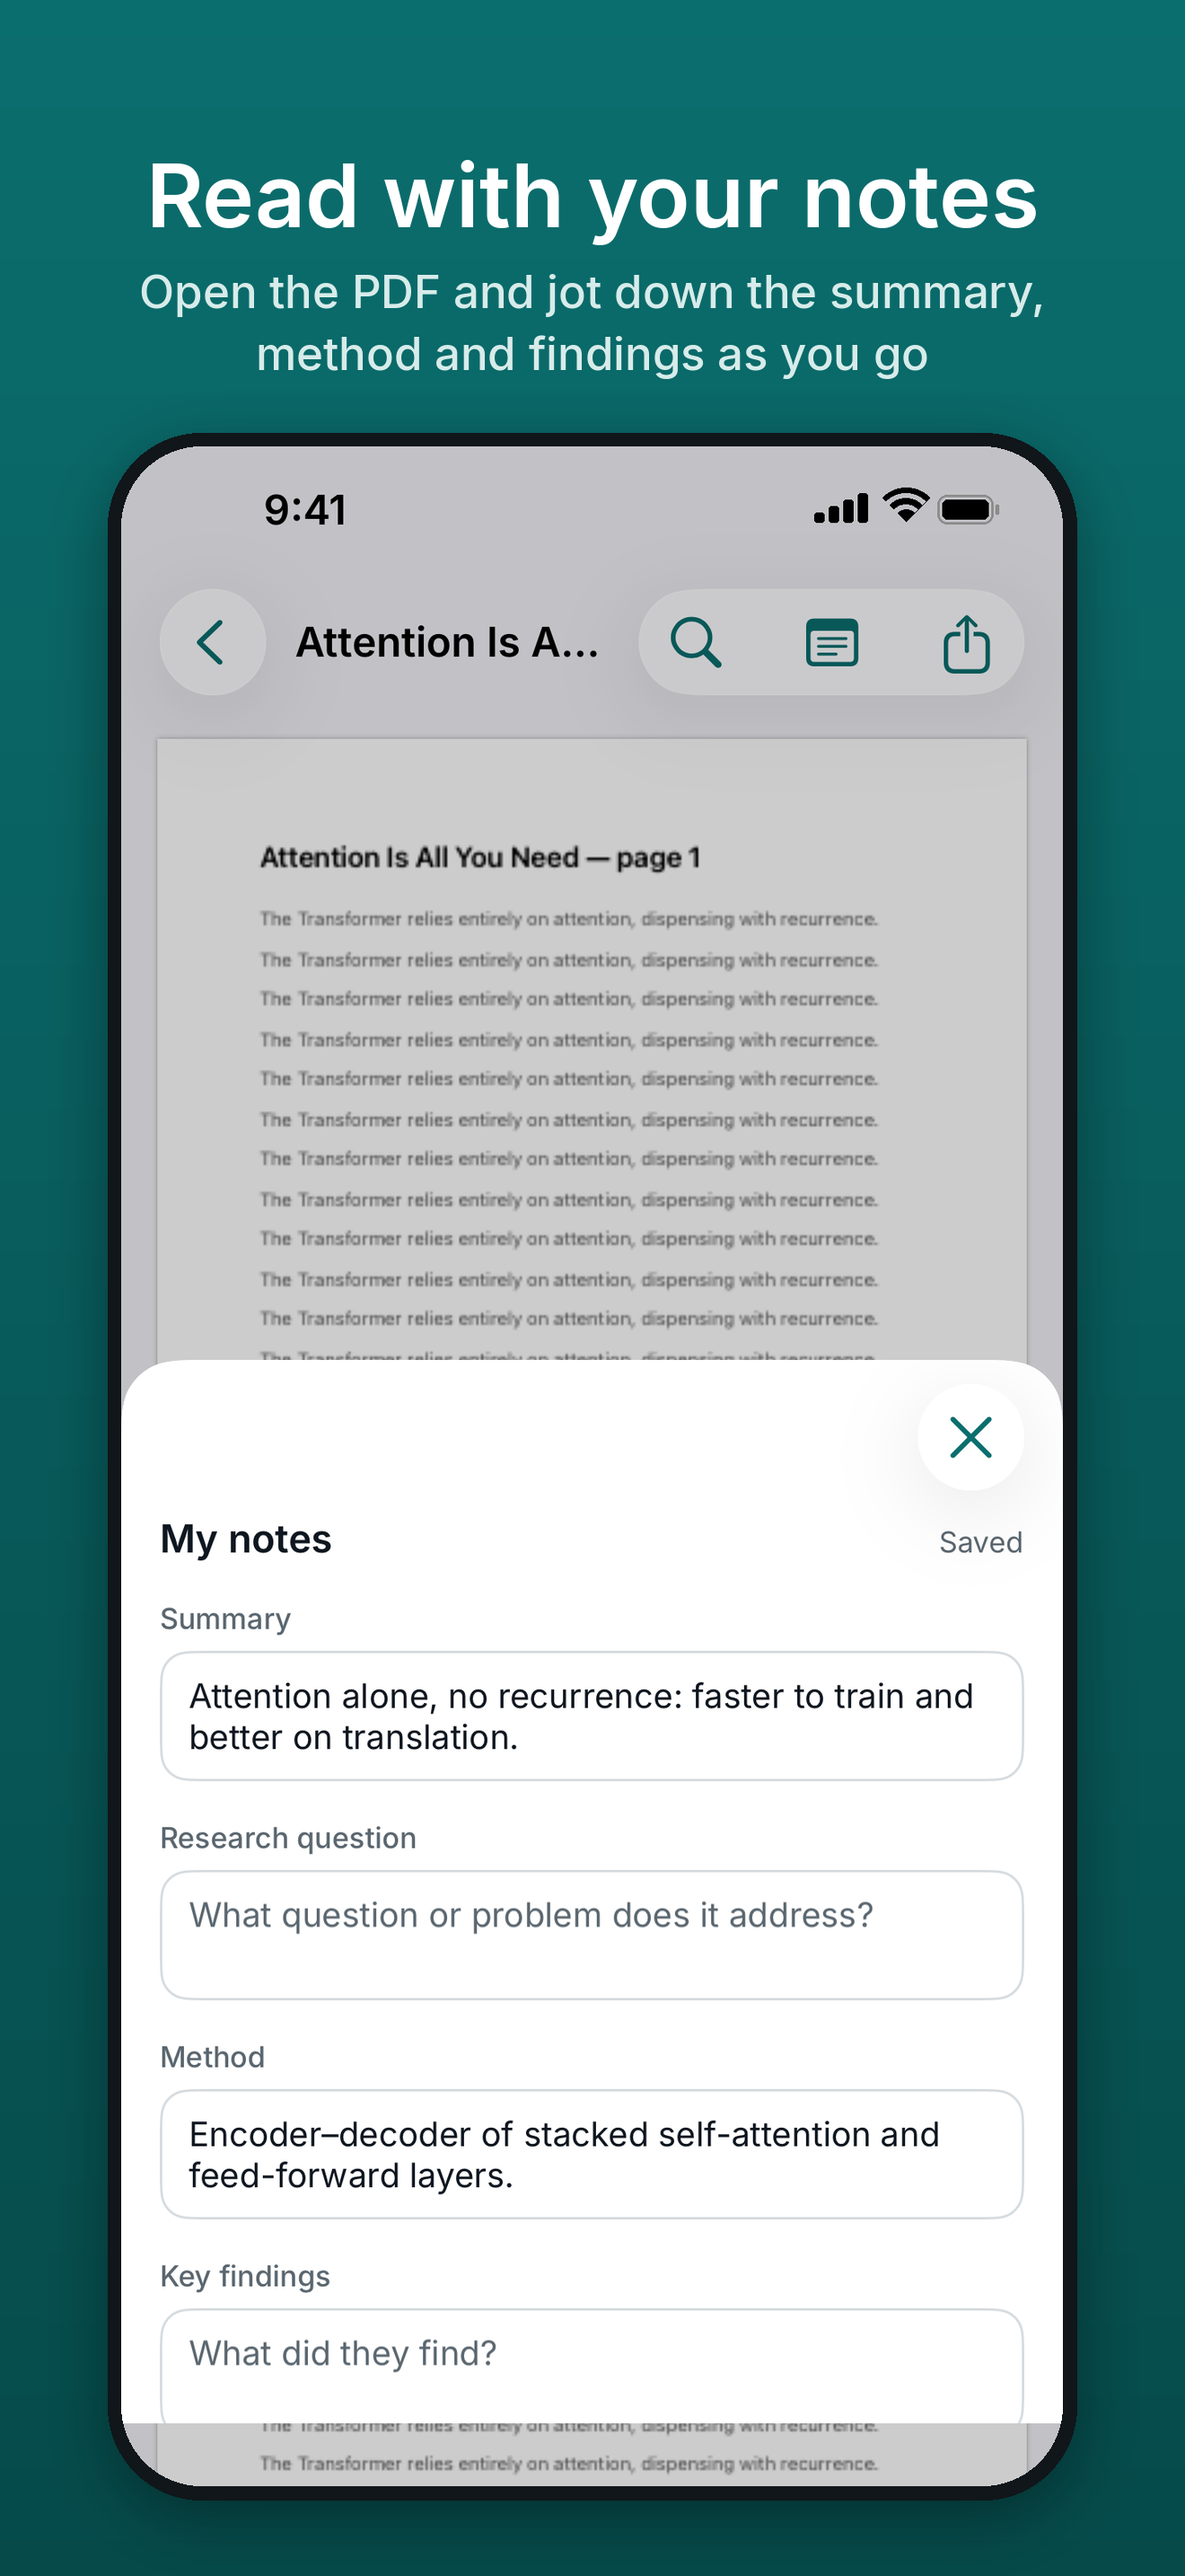
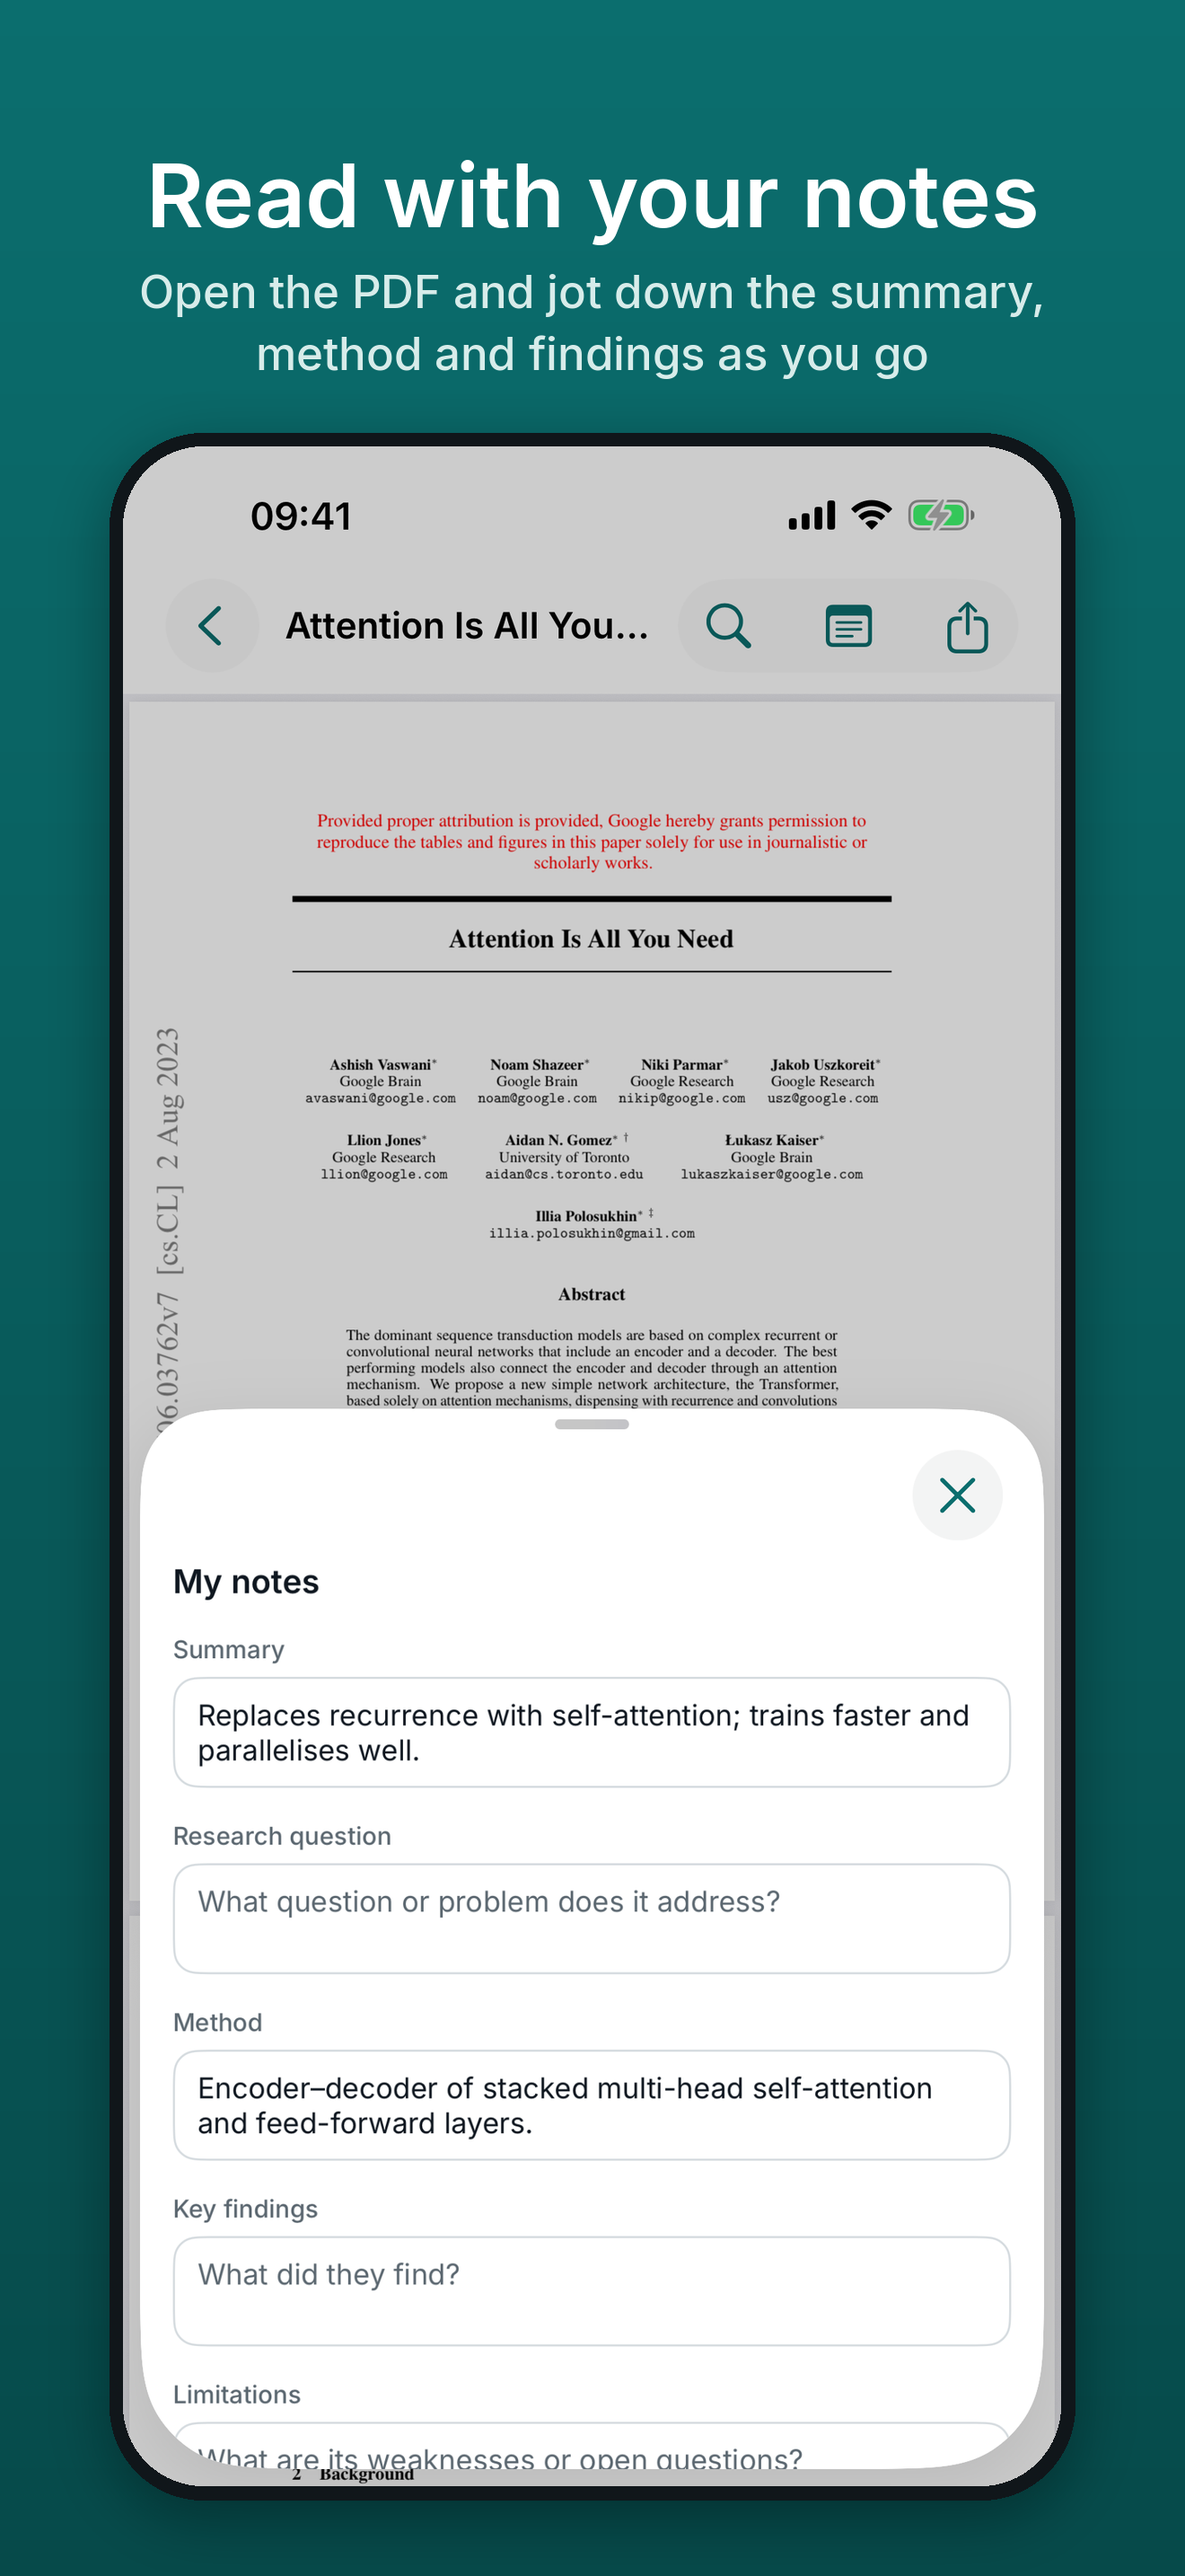
docs: replace the iOS store screenshots 5 and 6 with real captures

diff --git a/docs/store/README.md b/docs/store/README.md
@@ -32,4 +32,6 @@ The same script also redraws the feature graphic. It needs `rsvg-convert` and a 
 
 Both apps showed the same six real papers from OpenAlex, saved in the library as To read, Reading and Read, and a live search for "large language models".
 
-Shots 5 and 6 come from the snapshot-test baselines instead (`ios/HashiyaSnapshotTests/__Snapshots__/iOS26/` and `android/feature/*/src/test/screenshots/`, light theme), so they show test data and a stub PDF. The iOS ones are 1170 × 2532 with a drawn 9:41 status bar. Replace them with real captures when you next reshoot.
+The iOS shots 5 and 6 are real captures too, on the same simulator and setup. Shot 5 is "Attention Is All You Need" (its arXiv PDF) open in the reader, with notes in Summary and Method and the notes sheet at medium height. Shot 6 is a collection ("Thesis — Chapter 2", in Arabic "الفصل الثاني") holding four of the six papers, picked from the Library's title menu. The Arabic iOS captures use the Arabic language with the `ar_SA` region, so numbers show in Arabic-Indic digits, as in shots 1–4.
+
+The Play Store shots 5 and 6 still come from the snapshot-test baselines (`android/feature/*/src/test/screenshots/`, light theme), so they show test data and a stub PDF. Replace them with real captures when you next reshoot Android.
